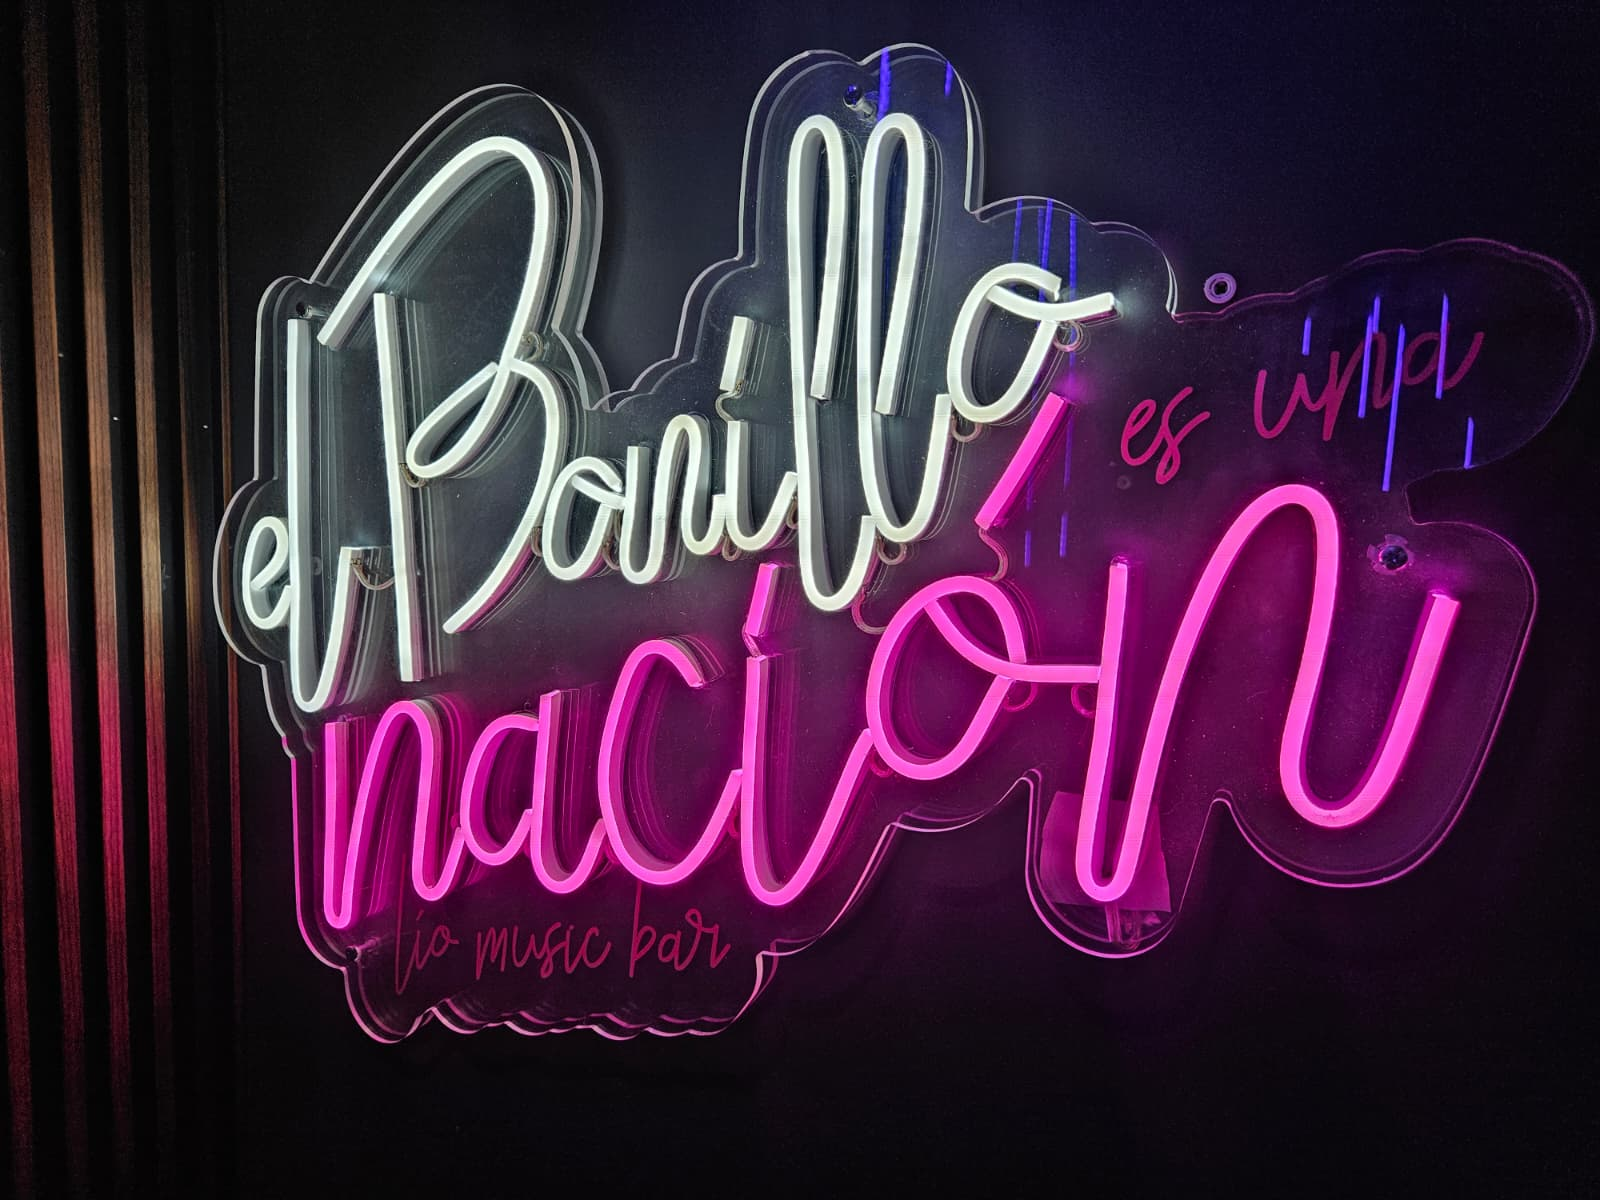
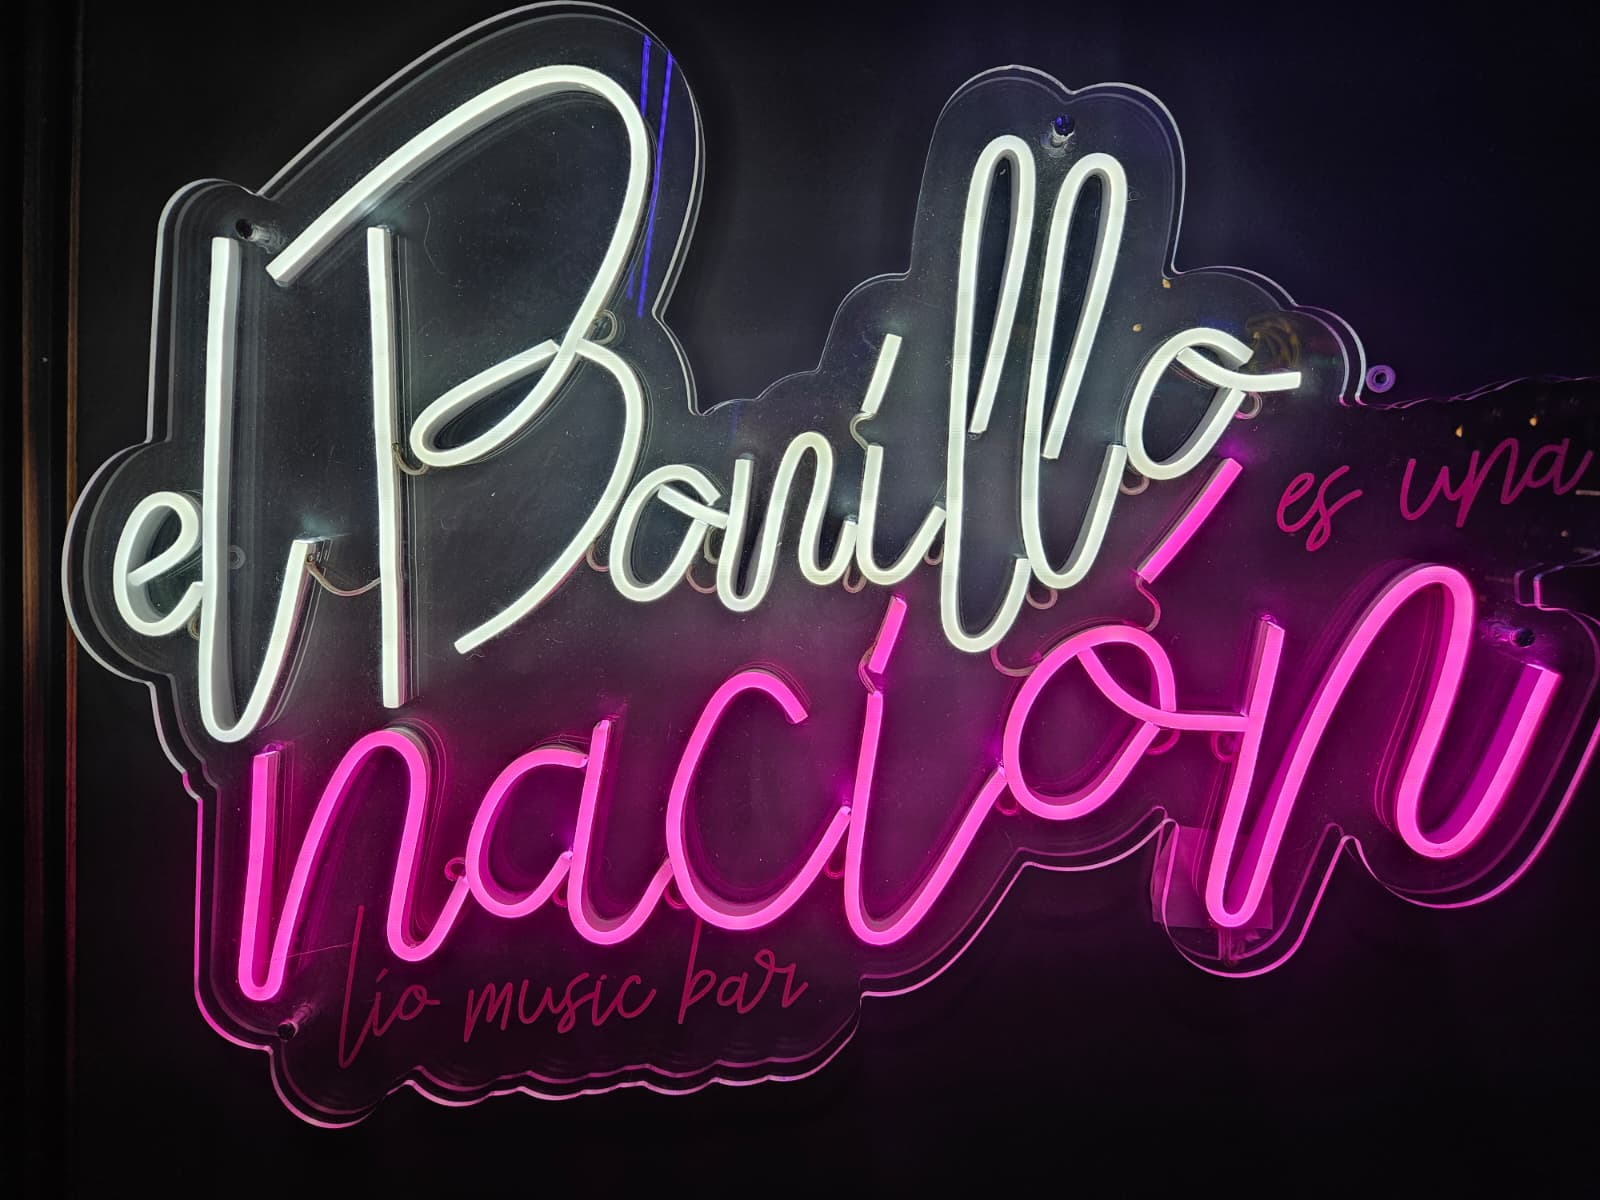
Cartel info como tarjeta y mejorando imagen neon

diff --git a/src/components/CartelFinde.tsx b/src/components/CartelFinde.tsx
@@ -114,7 +114,7 @@ export default function CartelFinde() {
             {muted ? <VolumeX size={18} strokeWidth={2} /> : <Volume2 size={18} strokeWidth={2} />}
           </button>
         </div>
-        <div className="lio-cartel-text">
+        <div className="lio-cartel-card lio-cartel-text">
           <span style={styles.badge}>Esta semana</span>
           <h3 style={styles.titulo}>{cartel.titulo}</h3>
           {cartel.subtitulo && <p style={styles.subtitulo}>{cartel.subtitulo}</p>}
@@ -204,15 +204,22 @@ const videoLayout = `
     display: flex;
     flex-direction: column;
     align-items: flex-start;
+    background: var(--surface);
+    border: 1px solid var(--border);
+    padding: 32px;
   }
   @media (min-width: 769px) {
     .lio-cartel-video {
       grid-template-columns: 380px 1fr;
       gap: 48px;
-      align-items: center;
+      align-items: stretch;
     }
     .lio-cartel-videocard {
       margin: 0;
+    }
+    .lio-cartel-text {
+      justify-content: center;
+      padding: 40px;
     }
   }
 `;
@@ -234,20 +241,26 @@ const neonGlow = `
   .lio-cartel-card::before {
     content: "";
     position: absolute;
-    inset: -2px;
+    inset: -3px;
     z-index: -1;
     border-radius: inherit;
-    padding: 2px;
+    padding: 3px;
     background: conic-gradient(
       from var(--lio-neon-angle),
       transparent 0deg,
-      var(--accent) 70deg,
-      color-mix(in srgb, var(--accent) 40%, transparent) 140deg,
-      transparent 200deg,
+      var(--accent) 60deg,
+      color-mix(in srgb, var(--accent) 55%, transparent) 130deg,
+      transparent 190deg,
       var(--accent) 320deg,
       transparent 360deg
     );
-    filter: drop-shadow(0 0 10px color-mix(in srgb, var(--accent) 60%, transparent));
+    /* Recorta el centro para que solo quede el anillo (borde real). */
+    -webkit-mask: linear-gradient(#000 0 0) content-box, linear-gradient(#000 0 0);
+    -webkit-mask-composite: xor;
+    mask: linear-gradient(#000 0 0) content-box, linear-gradient(#000 0 0);
+    mask-composite: exclude;
+    filter: drop-shadow(0 0 10px color-mix(in srgb, var(--accent) 75%, transparent))
+      drop-shadow(0 0 22px color-mix(in srgb, var(--accent) 45%, transparent));
     animation: lio-neon-spin 5s linear infinite, lio-neon-breath 3s ease-in-out infinite;
   }
   @keyframes lio-neon-spin {